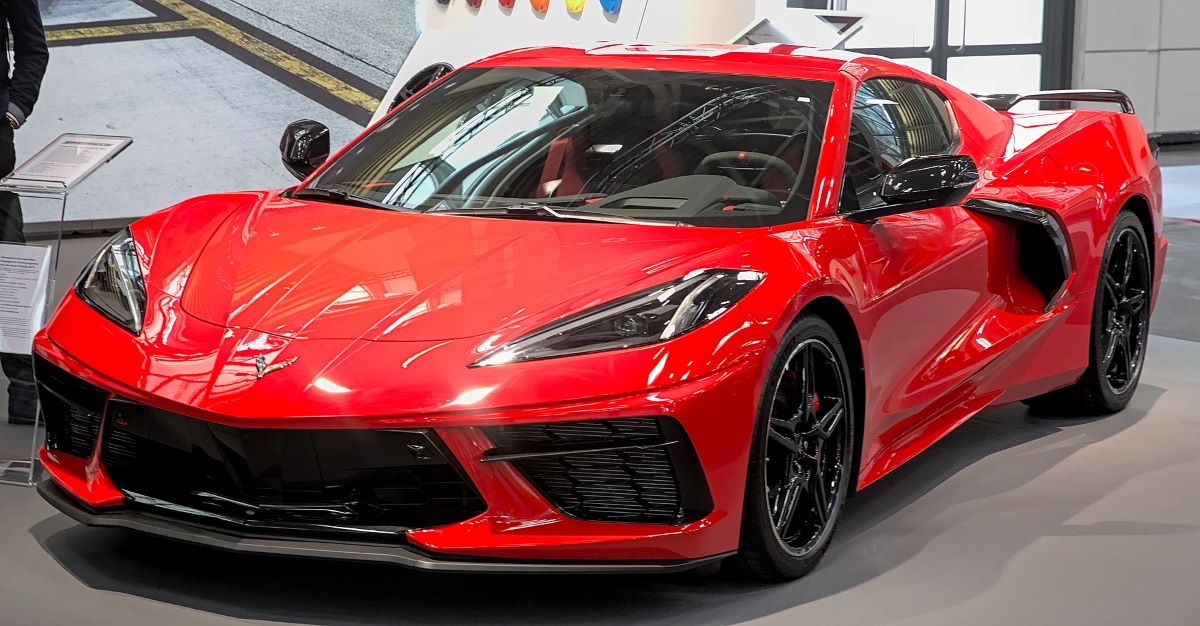
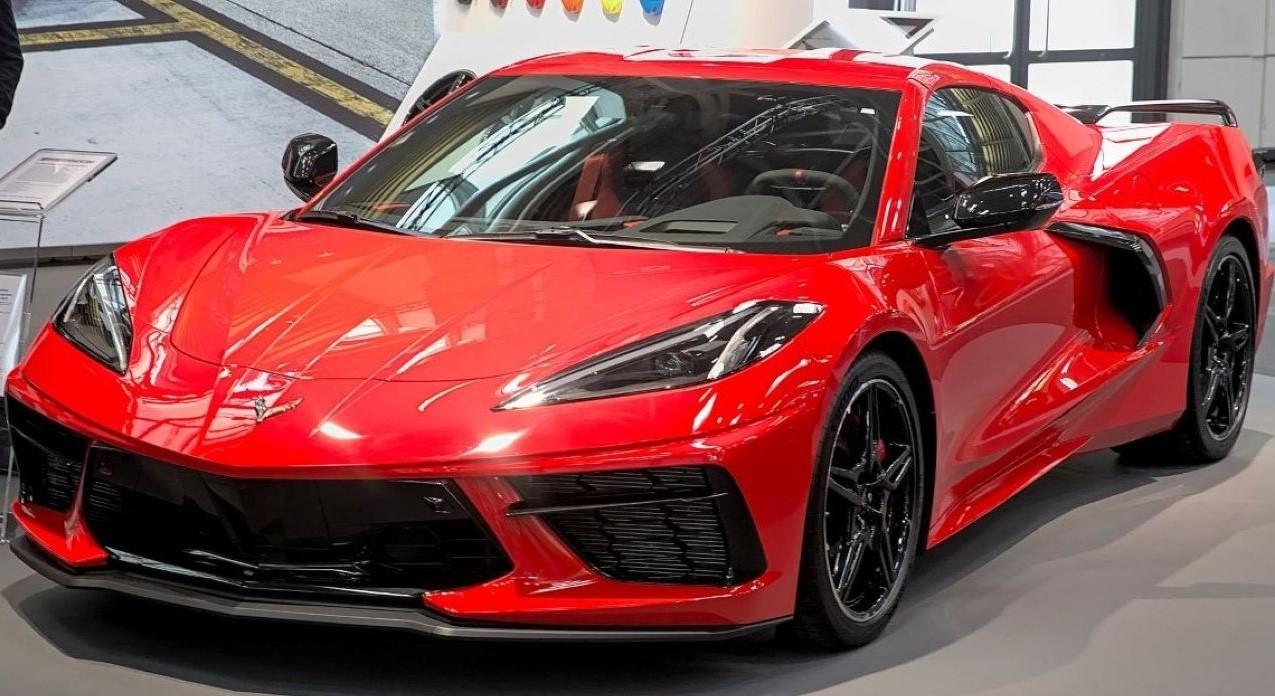
feat: replace all px in style.css, replace slide background by pictures in <img>, change size of C8 image (Sat, May 14, 2022 11:10:29 PM)

diff --git a/cssMemSlider/style.css b/cssMemSlider/style.css
@@ -1,7 +1,3 @@
-html {
-    font-size: 10px;
-}
-
 body {
     overflow: hidden;
 }
@@ -12,13 +8,13 @@ body {
     flex-direction: column;
     justify-content: space-around;
     align-items: center;
-    margin: auto auto;
+    margin: 0 auto 8vh;
     width: 85vw;
-    height: 100vh;
+    height: 92vh;
     background-color: black;
-    border: solid 5px lightgrey;
-    border-radius: 5px;
-    padding: 15px;
+    border: solid 0.4rem lightgrey;
+    border-radius: 3vh;
+    padding: 3vh;
     gap: 5vh;
 }
 
@@ -27,23 +23,21 @@ input {
 }
 
 .slider-wrapper {
-    width: 80vw;
-    height: 65vw;
+    width: 70vw;
+    height: 70vw;
     overflow: hidden;
-    border-radius: 10px;
+    border-radius: 3vh;
 }
 
 .slider {
     display: inline-flex;
-    /* gap: 50px; */
-    margin: 0 40px;
     transition: all 1s;
 }
 
 .slide {
-    width: 80vw;
-    height: 65vw;
-    border-radius: 10px;
+    width: 70vw;
+    height: 70vw;
+    border-radius: 3vh;
     background-repeat: no-repeat;
     background-size: contain;
 }
@@ -55,14 +49,14 @@ input {
 .slide img {
     width: 100%;
     height: auto;
-    border-radius: 10px;
+    border-radius: 3vh;
 }
 
 /* .slide.c2 {
     background-image: url(./assets/Corvette-C2-Coupe.jpg);
 } */
 
-.slide.c3 {
+/* .slide.c3 {
     background-image: url(./assets/Corvette-C3-Coupe.jpg);
 }
 
@@ -84,17 +78,19 @@ input {
 
 .slide.c8 {
     background-image: url(./assets/Corvette-C8.jpg);
-}
+} */
 
 .footer {
     display: flex;
-    width: 80%;
+    width: 85%;
     justify-content: space-between;
-    margin-bottom: 5vh;
+    margin-bottom: 3vh;
+    margin-left: 2vh;
 }
 
 .text-box {
     width: 100%;
+    align-self: center;
 }
 
 .text {
@@ -115,23 +111,23 @@ input {
 }
 
 label {
-    width: 30px;
-    height: 30px;
+    width: 5vh;
+    height: 6vh;
 }
 
 .label {
-    width: 10px;
-    height: 10px;
+    width: 2vh;
+    height: 2vh;
     border: solid 0.2rem gray;
     border-radius: 50%;
     background-color: transparent;
-    margin-right: 5px;
     cursor: pointer;
     transition: opacity .3s;
 }
 
 .switcher:hover .label{
     background-color: white;
+    border-color: white;
 }
 
 input#c1:checked ~ .slider-wrapper .slider {
@@ -139,11 +135,12 @@ input#c1:checked ~ .slider-wrapper .slider {
 }
 
 input#c1:checked ~ .footer .text-box .text.c1 {
-    font-size: 2rem;
+    font-size: 1.8rem;
 }
 
 input#c1:checked ~ .footer .switchers label[for="c1"] .label {
     background-color: aqua;
+    border-color: aqua;
 }
 
 input#c2:checked ~ .slider-wrapper .slider {
@@ -151,11 +148,12 @@ input#c2:checked ~ .slider-wrapper .slider {
 }
 
 input#c2:checked ~ .footer .text-box .text.c2 {
-    font-size: 2rem;
+    font-size: 1.8rem;
 }
 
 input#c2:checked ~ .footer .switchers label[for="c2"] .label {
     background-color: aqua;
+    border-color: aqua;
 }
 
 input#c3:checked ~ .slider-wrapper .slider {
@@ -163,11 +161,12 @@ input#c3:checked ~ .slider-wrapper .slider {
 }
 
 input#c3:checked ~ .footer .text-box .text.c3 {
-    font-size: 2rem;
+    font-size: 1.8rem;
 }
 
 input#c3:checked ~ .footer .switchers label[for="c3"] .label {
     background-color: aqua;
+    border-color: aqua;
 }
 
 input#c4:checked ~ .slider-wrapper .slider {
@@ -175,11 +174,12 @@ input#c4:checked ~ .slider-wrapper .slider {
 }
 
 input#c4:checked ~ .footer .text-box .text.c4 {
-    font-size: 2rem;
+    font-size: 1.8rem;
 }
 
 input#c4:checked ~ .footer .switchers label[for="c4"] .label {
     background-color: aqua;
+    border-color: aqua;
 }
 
 input#c5:checked ~ .slider-wrapper .slider {
@@ -187,11 +187,12 @@ input#c5:checked ~ .slider-wrapper .slider {
 }
 
 input#c5:checked ~ .footer .text-box .text.c5 {
-    font-size: 2rem;
+    font-size: 1.8rem;
 }
 
 input#c5:checked ~ .footer .switchers label[for="c5"] .label {
     background-color: aqua;
+    border-color: aqua;
 }
 
 input#c6:checked ~ .slider-wrapper .slider {
@@ -199,11 +200,12 @@ input#c6:checked ~ .slider-wrapper .slider {
 }
 
 input#c6:checked ~ .footer .text-box .text.c6 {
-    font-size: 2rem;
+    font-size: 1.8rem;
 }
 
 input#c6:checked ~ .footer .switchers label[for="c6"] .label {
     background-color: aqua;
+    border-color: aqua;
 }
 
 input#c7:checked ~ .slider-wrapper .slider {
@@ -211,11 +213,12 @@ input#c7:checked ~ .slider-wrapper .slider {
 }
 
 input#c7:checked ~ .footer .text-box .text.c7 {
-    font-size: 2rem;
+    font-size: 1.8rem;
 }
 
 input#c7:checked ~ .footer .switchers label[for="c7"] .label {
     background-color: aqua;
+    border-color: aqua;
 }
 
 input#c8:checked ~ .slider-wrapper .slider {
@@ -223,11 +226,12 @@ input#c8:checked ~ .slider-wrapper .slider {
 }
 
 input#c8:checked ~ .footer .text-box .text.c8 {
-    font-size: 2rem;
+    font-size: 1.8rem;
 }
 
 input#c8:checked ~ .footer .switchers label[for="c8"] .label {
     background-color: aqua;
+    border-color: aqua;
 }
 
 @media (max-width: 768px) {

diff --git a/cssMemSlider/index.html b/cssMemSlider/index.html
@@ -23,12 +23,12 @@
             <div class="slider">
                 <div class="slide c1"><img src="./assets/Corvette-C1-1962.jpg" alt=""></div>
                 <div class="slide c2"><img src="./assets/Corvette-C2-Coupe.jpg" alt=""></div>
-                <div class="slide c3"></div>
-                <div class="slide c4"></div>
-                <div class="slide c5"></div>
-                <div class="slide c6"></div>
-                <div class="slide c7"></div>
-                <div class="slide c8"></div>
+                <div class="slide c3"><img src="./assets/Corvette-C3-Coupe.jpg" alt=""></div>
+                <div class="slide c4"><img src="./assets/Corvette-C4-Cabrio.jpg" alt=""></div>
+                <div class="slide c5"><img src="./assets/Corvette-C5-Coupe.jpg" alt=""></div>
+                <div class="slide c6"><img src="./assets/Corvette-C6-Coupe.jpg" alt=""></div>
+                <div class="slide c7"><img src="./assets/Corvette-C7.jpg" alt=""></div>
+                <div class="slide c8"><img src="./assets/Corvette-C8.jpg" alt=""></div>
             </div>
         </div>
         <div class="footer">
